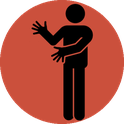
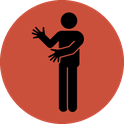
Add files via upload

diff --git a/mentions-legales.html b/mentions-legales.html
@@ -47,7 +47,7 @@ dl{margin:8px 0}dt{font-weight:700;margin-top:10px}dd{margin:2px 0 0}
 <dt>SIRET</dt><dd>919 763 748 00010</dd>
 <dt>TVA</dt><dd>Non assujettie à la TVA</dd>
 <dt>Contact</dt><dd><a href="mailto:10doigtsencavale@gmail.com">10doigtsencavale@gmail.com</a></dd>
-
+<dt>Téléphone (cofondatrices)</dt><dd>Aurélie Nahon : <a href="tel:+33628946326">06.28.94.63.26</a><br>Perinne Diot : <a href="tel:+33643339949">06.43.33.99.49</a></dd>
 <dt>Site de l'association</dt><dd><a href="https://www.10doigtsencavale.com" rel="noopener noreferrer">www.10doigtsencavale.com</a></dd>
 </dl>
 <h2>Direction de la publication</h2>
